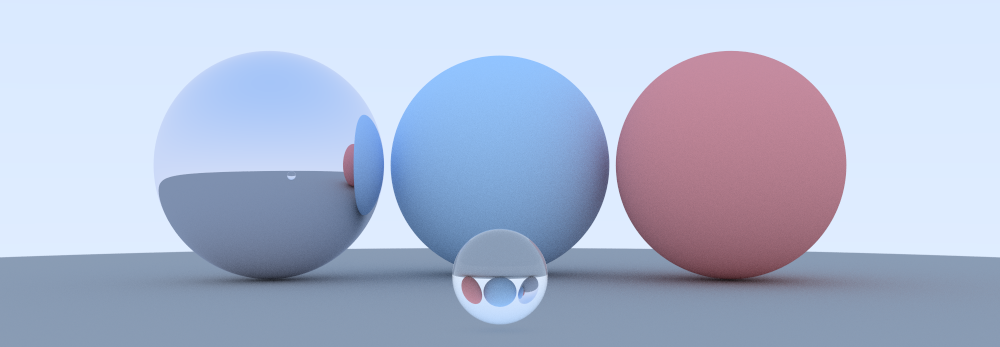
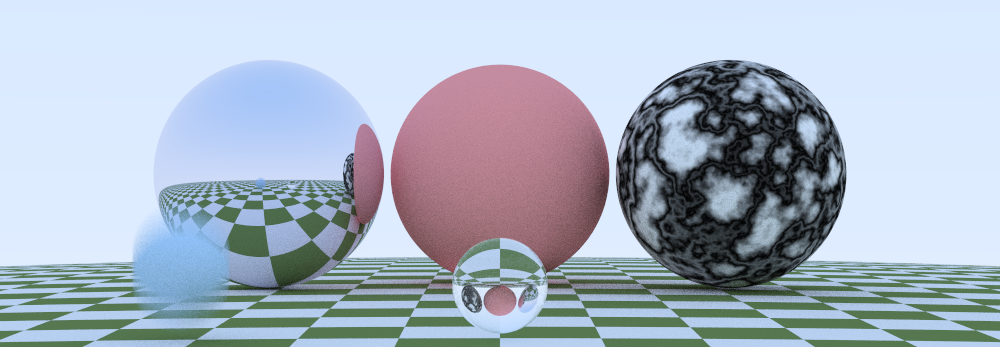
Ray tracer

diff --git a/ray_tracer.html b/ray_tracer.html
@@ -37,12 +37,14 @@
             
             <h2><u>Features</u></h2>
             <div class="item-text">
-                The ray tracer supports anti-aliasing and diffuse, metal, and dielectric materials.
-                It can also allow for depth of field and a variety of camera angles.
+                Camera: Anti-aliasing, depth of field, variety of camera angles, motion blur<br>
+                Materials: Diffuse, metal, dielectric<br>
+                Textures: UV mapping, Perlin noise <br>
+                Ray-intersection: Bounding Volume Hierarchy
             </div><br><br>
             <h2><u>Disclaimer</u></h2>
             <div class="item-text">
-                The code is for educational purposes only.
+                The code is for <span class="text-danger">educational purposes</span> only.
             </div><br><br>
         </section>
 
